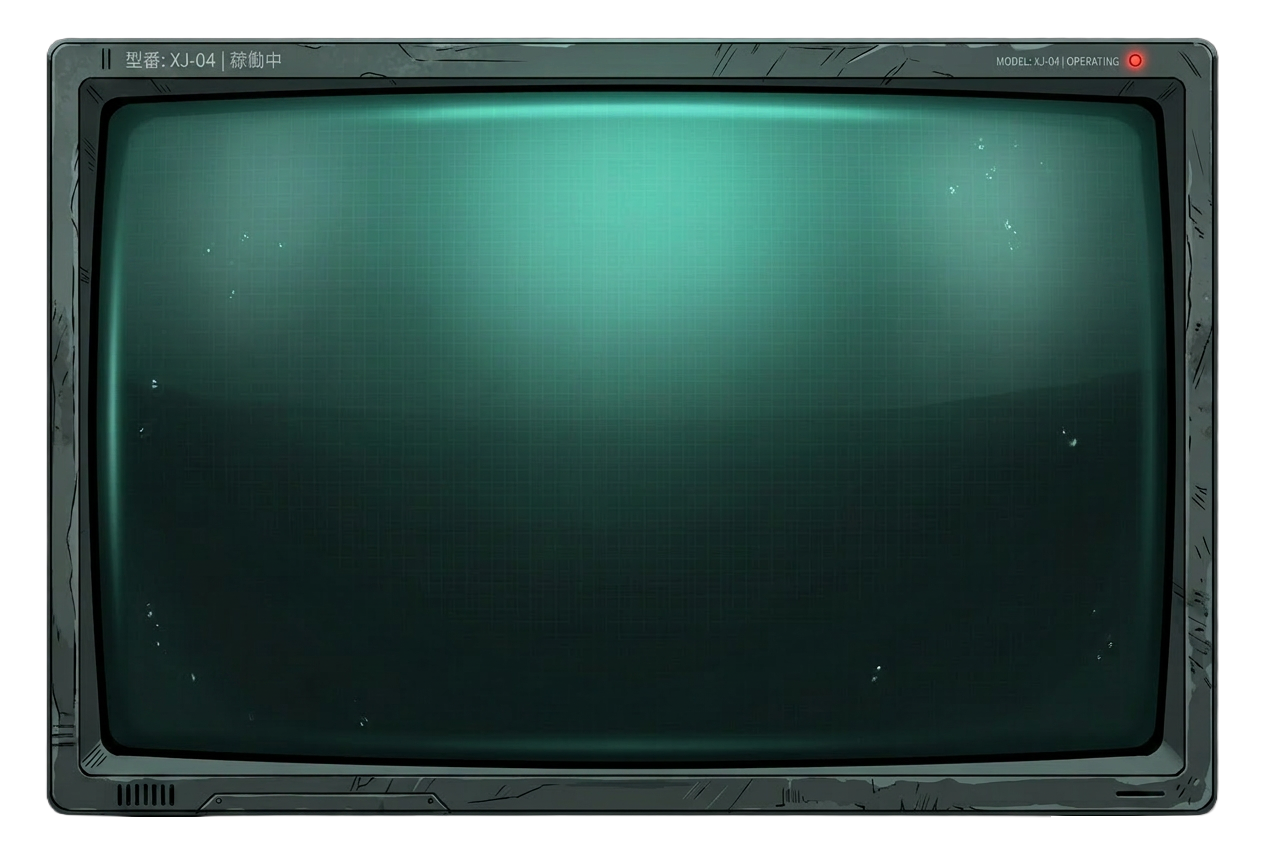
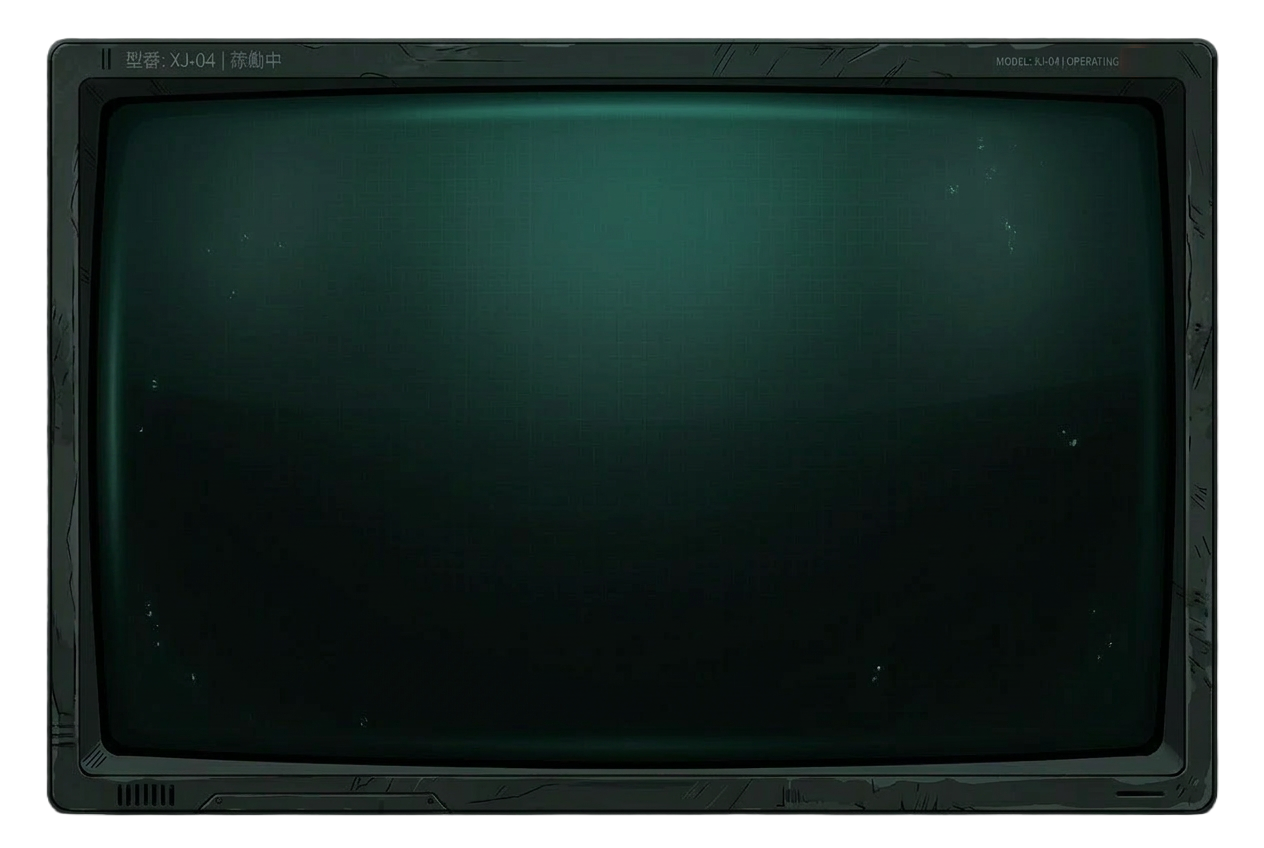
changed some images

diff --git a/vending/vending_machine_v3.html b/vending/vending_machine_v3.html
@@ -192,7 +192,7 @@
     position: absolute;
     top: 53%;
     left: 5%;
-    width: 85%;
+    width: 75%;
     height: 9%;
     display: flex;
     align-items: center;
@@ -208,7 +208,7 @@
     object-fit: contain;
     filter:
     brightness(1.05)
-    contrast(0.9)
+    contrast(0.7)
     saturate(0.75)
     drop-shadow(0 1px 3px rgba(0,0,0,0.7));
   }
@@ -257,7 +257,7 @@
 
 const MENUS = {
   selectItem: {
-    screen: '▶ SELECT ITEM',
+    screen: '▶ WHAT WOULD YOU LIKE TO PURCHASE',
     body: 'WAITING INPUT.',
     buttons: [
       { label: 'CYBER-COLA', msg: 'CYBER-COLA CONFIRMED.&#10;PROCESSING...', next: 'confirm' },
